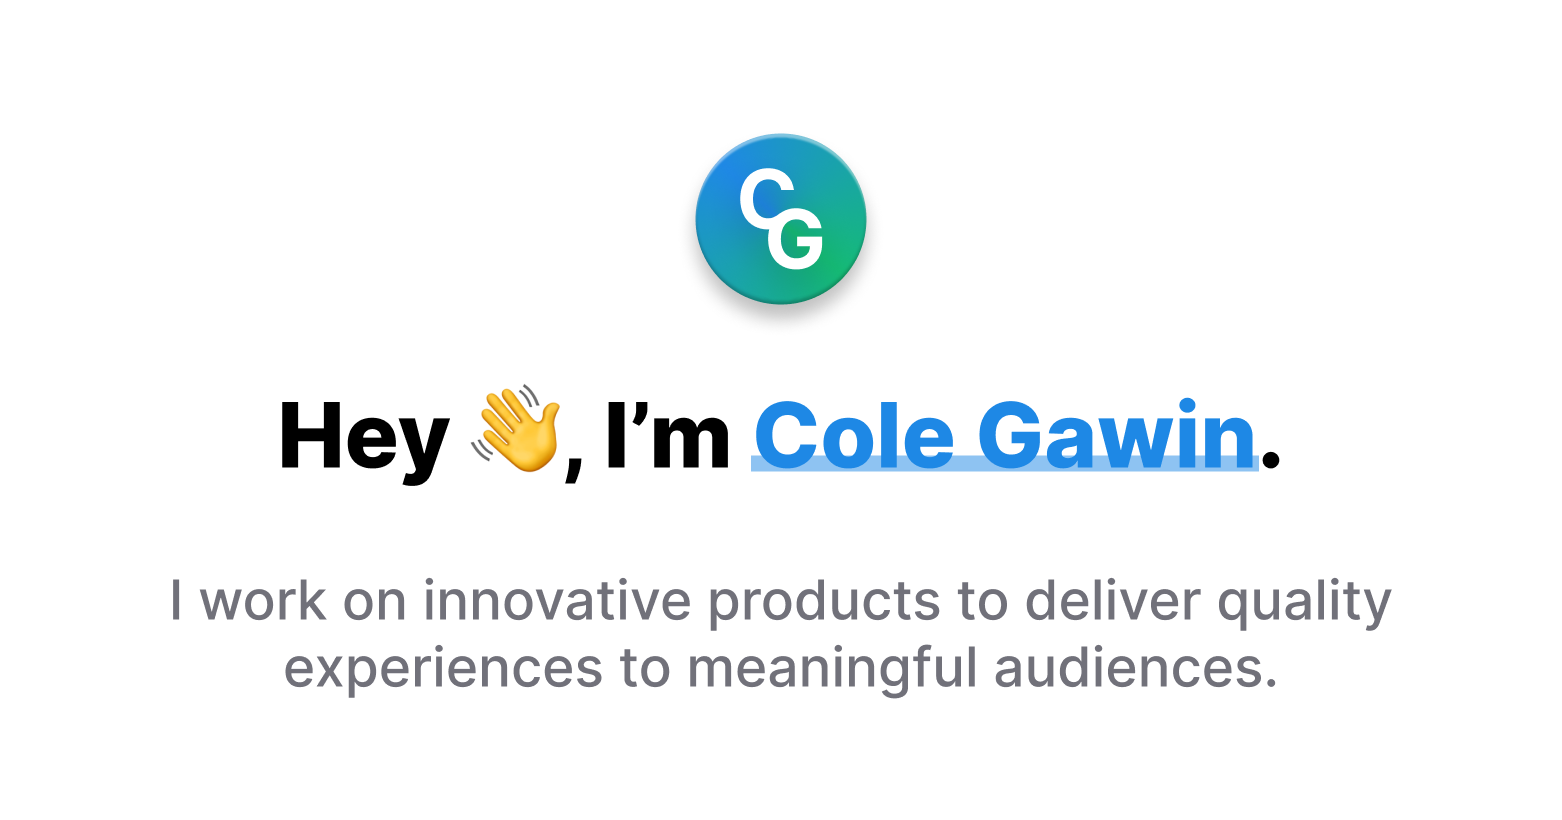
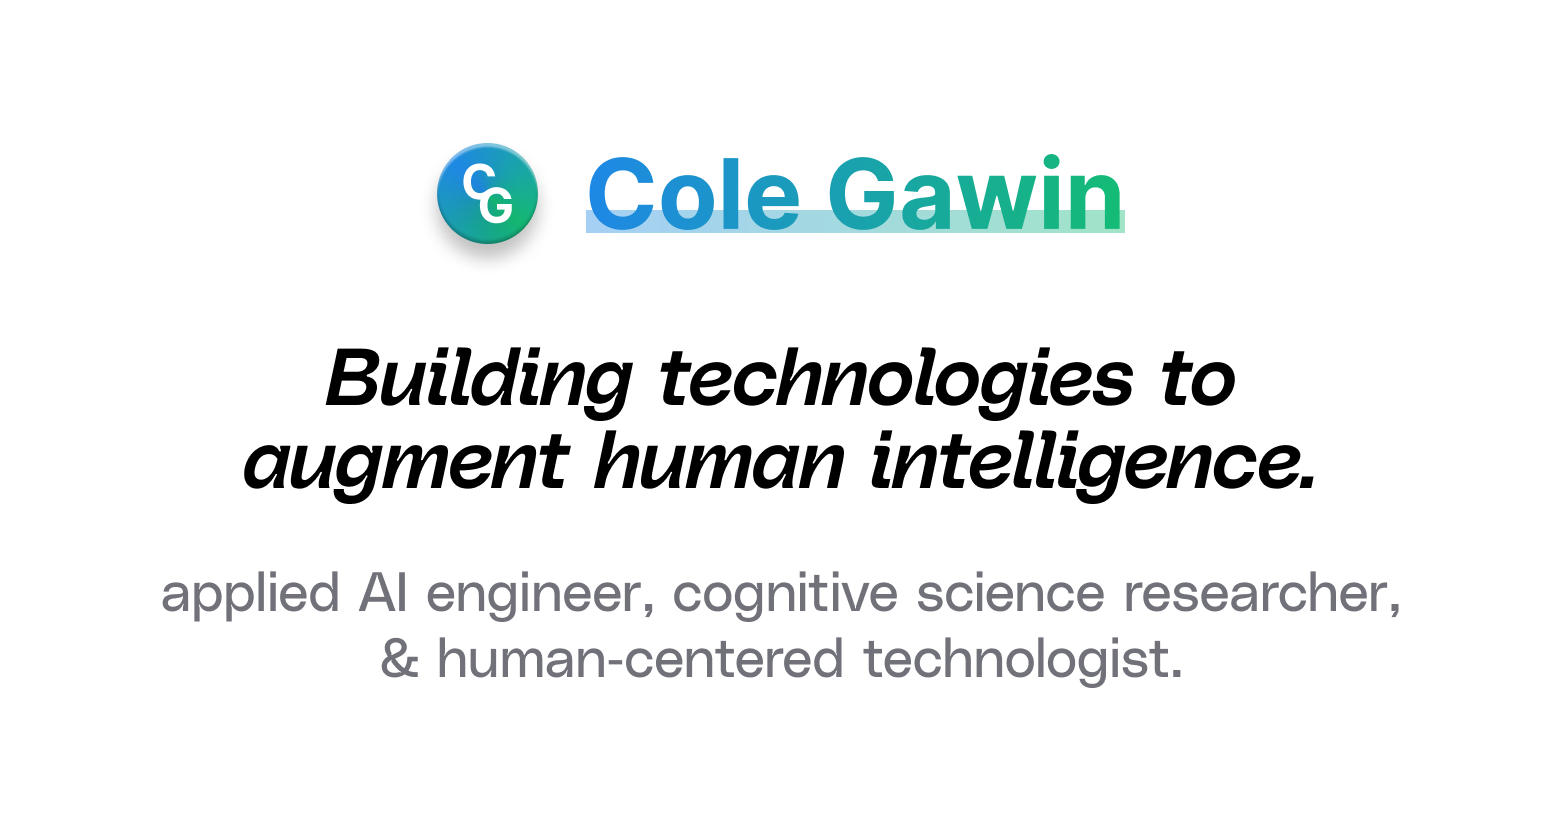
feat: update SEO

Changed region(s): [[0.1536, 0.4268, 0.8604, 0.6098], [0.0922, 0.7012, 0.8912, 0.8537], [0.2766, 0.1524, 0.7375, 0.3963]]

diff --git a/src/app/layout.tsx b/src/app/layout.tsx
@@ -25,13 +25,11 @@ const manrope = Manrope({
 
 export const metadata = {
   title: "Cole Gawin",
-  description:
-    "Working with passionate brands is my passion. I work with people to deliver quality experiences to meaningful audiences.",
+  description: "Building technologies to augment human intelligence.",
   openGraph: {
     url: "https://colegaw.in",
     title: "Cole Gawin",
-    description:
-      "Working with passionate brands is my passion. I work with people to deliver quality experiences to meaningful audiences.",
+    description: "Building technologies to augment human intelligence.",
     images: [{ url: "https://colegaw.in/img/seo.png" }],
     site_name: "Cole Gawin",
   },
